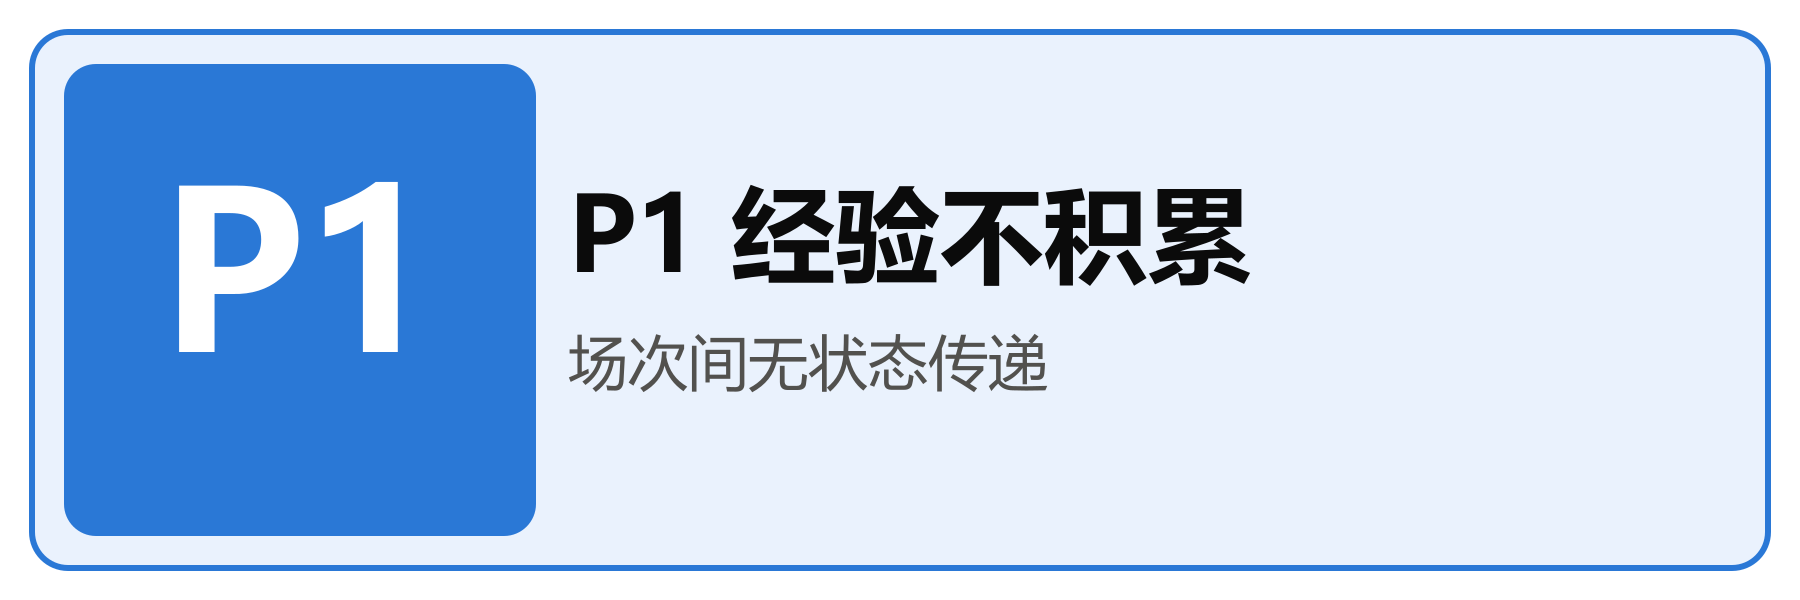
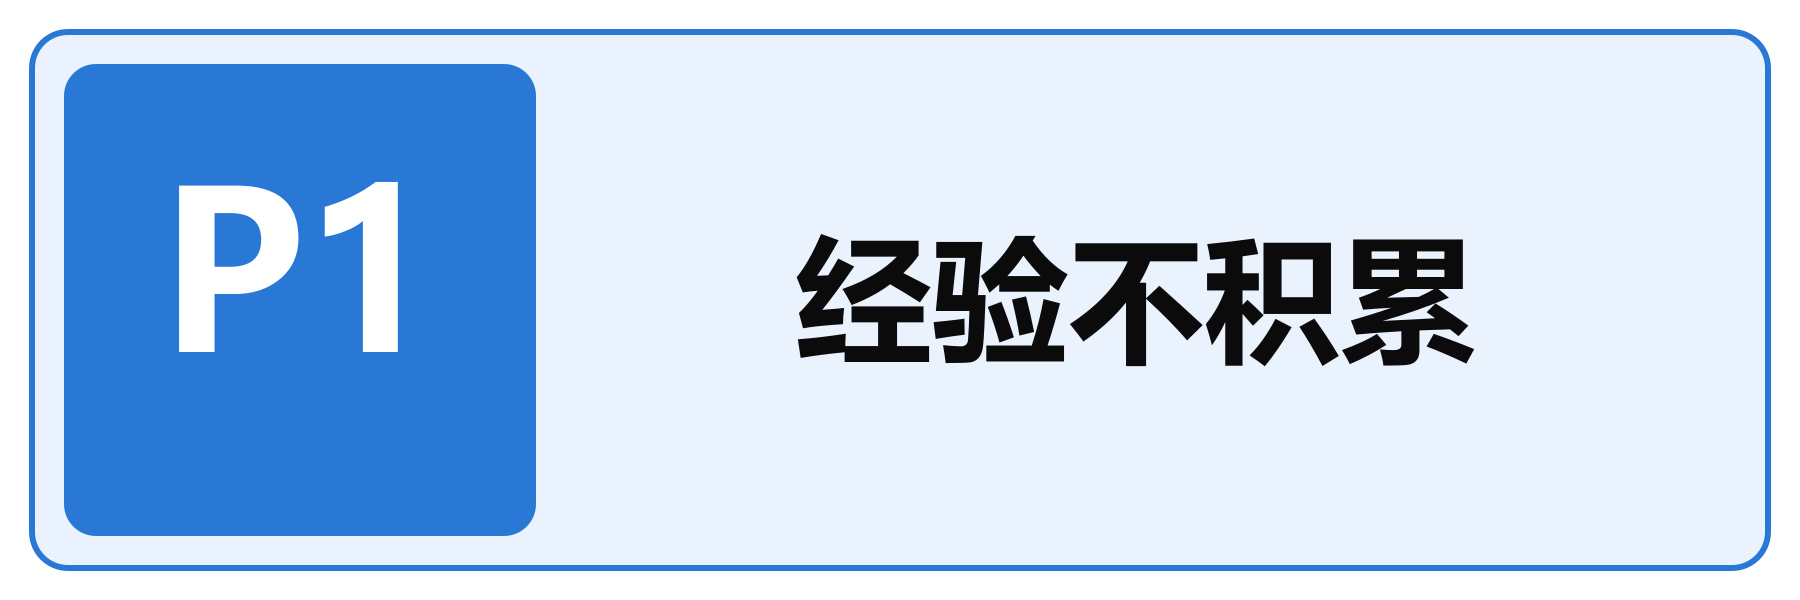
docs(ppt): 重做 P1-P5 配图——序号入左色块、去掉小字、大字居中（不改 PPT）

Changed region(s): [[0.3111, 0.3, 0.84, 0.66]]

diff --git a/docs/figures/ppt/generate_ppt_svgs.py b/docs/figures/ppt/generate_ppt_svgs.py
@@ -61,10 +61,18 @@ def render_icon(title, sub, letter, color, bg, w=900, h=300):
     # 左侧大编号
     S += f'<rect x="32" y="32" width="{h-64}" height="{h-64}" rx="16" fill="{color}"/>'
     S += f'<text x="{32+(h-64)/2}" y="{h/2+26}" font-size="110px" font-weight="700" fill="{WHITE}" text-anchor="middle" font-family="Microsoft YaHei, SimHei, sans-serif">{esc(letter)}</text>'
-    # 右侧标题/副标
-    tx = h-16
-    S += f'<text x="{tx}" y="{h/2-14}" font-size="52px" font-weight="700" fill="{BLACK}" font-family="Microsoft YaHei, SimHei, sans-serif">{esc(title)}</text>'
-    S += f'<text x="{tx}" y="{h/2+42}" font-size="30px" font-weight="400" fill="{GREY}" font-family="Microsoft YaHei, SimHei, sans-serif">{esc(sub)}</text>'
+    # 右侧文字
+    left_block_right = 32 + (h - 64)          # 左侧色块右边缘
+    right_block_right = w - 32                 # 右侧剩余区域右边缘
+    cx_text = (left_block_right + right_block_right) / 2
+    if sub:
+        # 有副标：标题在上、副标在下（RQ 图沿用）
+        tx = h - 16
+        S += f'<text x="{tx}" y="{h/2-14}" font-size="52px" font-weight="700" fill="{BLACK}" font-family="Microsoft YaHei, SimHei, sans-serif">{esc(title)}</text>'
+        S += f'<text x="{tx}" y="{h/2+42}" font-size="30px" font-weight="400" fill="{GREY}" font-family="Microsoft YaHei, SimHei, sans-serif">{esc(sub)}</text>'
+    else:
+        # 无副标：只有大字标题，居中占据右侧色块中央
+        S += f'<text x="{cx_text}" y="{h/2+24}" font-size="68px" font-weight="700" fill="{BLACK}" text-anchor="middle" font-family="Microsoft YaHei, SimHei, sans-serif">{esc(title)}</text>'
     S += '</svg>'
     return S
 
@@ -174,11 +182,11 @@ TASKS = [
  dict(f="ppt_zhirong", kind="flow", w=900,h=1060, title="智戎事件驱动适配", sub="三挂接点 → P0 生命周期适配",
       items=["hook_plan","hook_feedback","hook_evolve","normalize_task"]),
  # 小图（失败模式 5 + RQ 5，3.2cm 宽）
- dict(f="ppt_p1", kind="icon", w=900,h=300, title="P1 经验不积累", sub="场次间无状态传递", letter="P1", color=BLUE, bg=BLUE_BG),
- dict(f="ppt_p2", kind="icon", w=900,h=300, title="P2 上下文超限", sub="硬约束可能丢失", letter="P2", color=ORANGE, bg=ORANGE_BG),
- dict(f="ppt_p3", kind="icon", w=900,h=300, title="P3 查询口径混杂", sub="精确与语义同路", letter="P3", color=GREEN, bg=GREEN_BG),
- dict(f="ppt_p4", kind="icon", w=900,h=300, title="P4 库噪声", sub="复盘无差别入库", letter="P4", color=PURPLE, bg=PURPLE_BG),
- dict(f="ppt_p5", kind="icon", w=900,h=300, title="P5 目标检索弱", sub="目标文本信息太薄", letter="P5", color=YELLOW, bg=YELLOW_BG),
+ dict(f="ppt_p1", kind="icon", w=900,h=300, title="经验不积累", sub="", letter="P1", color=BLUE, bg=BLUE_BG),
+ dict(f="ppt_p2", kind="icon", w=900,h=300, title="上下文超限", sub="", letter="P2", color=ORANGE, bg=ORANGE_BG),
+ dict(f="ppt_p3", kind="icon", w=900,h=300, title="查询口径混杂", sub="", letter="P3", color=GREEN, bg=GREEN_BG),
+ dict(f="ppt_p4", kind="icon", w=900,h=300, title="库噪声", sub="", letter="P4", color=PURPLE, bg=PURPLE_BG),
+ dict(f="ppt_p5", kind="icon", w=900,h=300, title="目标检索弱", sub="", letter="P5", color=YELLOW, bg=YELLOW_BG),
  dict(f="ppt_rq1", kind="icon", w=900,h=300, title="RQ1 双库贡献", sub="G2 vs G3 消融", letter="RQ1", color=BLUE, bg=BLUE_BG),
  dict(f="ppt_rq2", kind="icon", w=900,h=300, title="RQ2 跨场次复用", sub="第一场→第二场", letter="RQ2", color=ORANGE, bg=ORANGE_BG),
  dict(f="ppt_rq3", kind="icon", w=900,h=300, title="RQ3 检索策略", sub="hybrid vs 单路", letter="RQ3", color=GREEN, bg=GREEN_BG),
